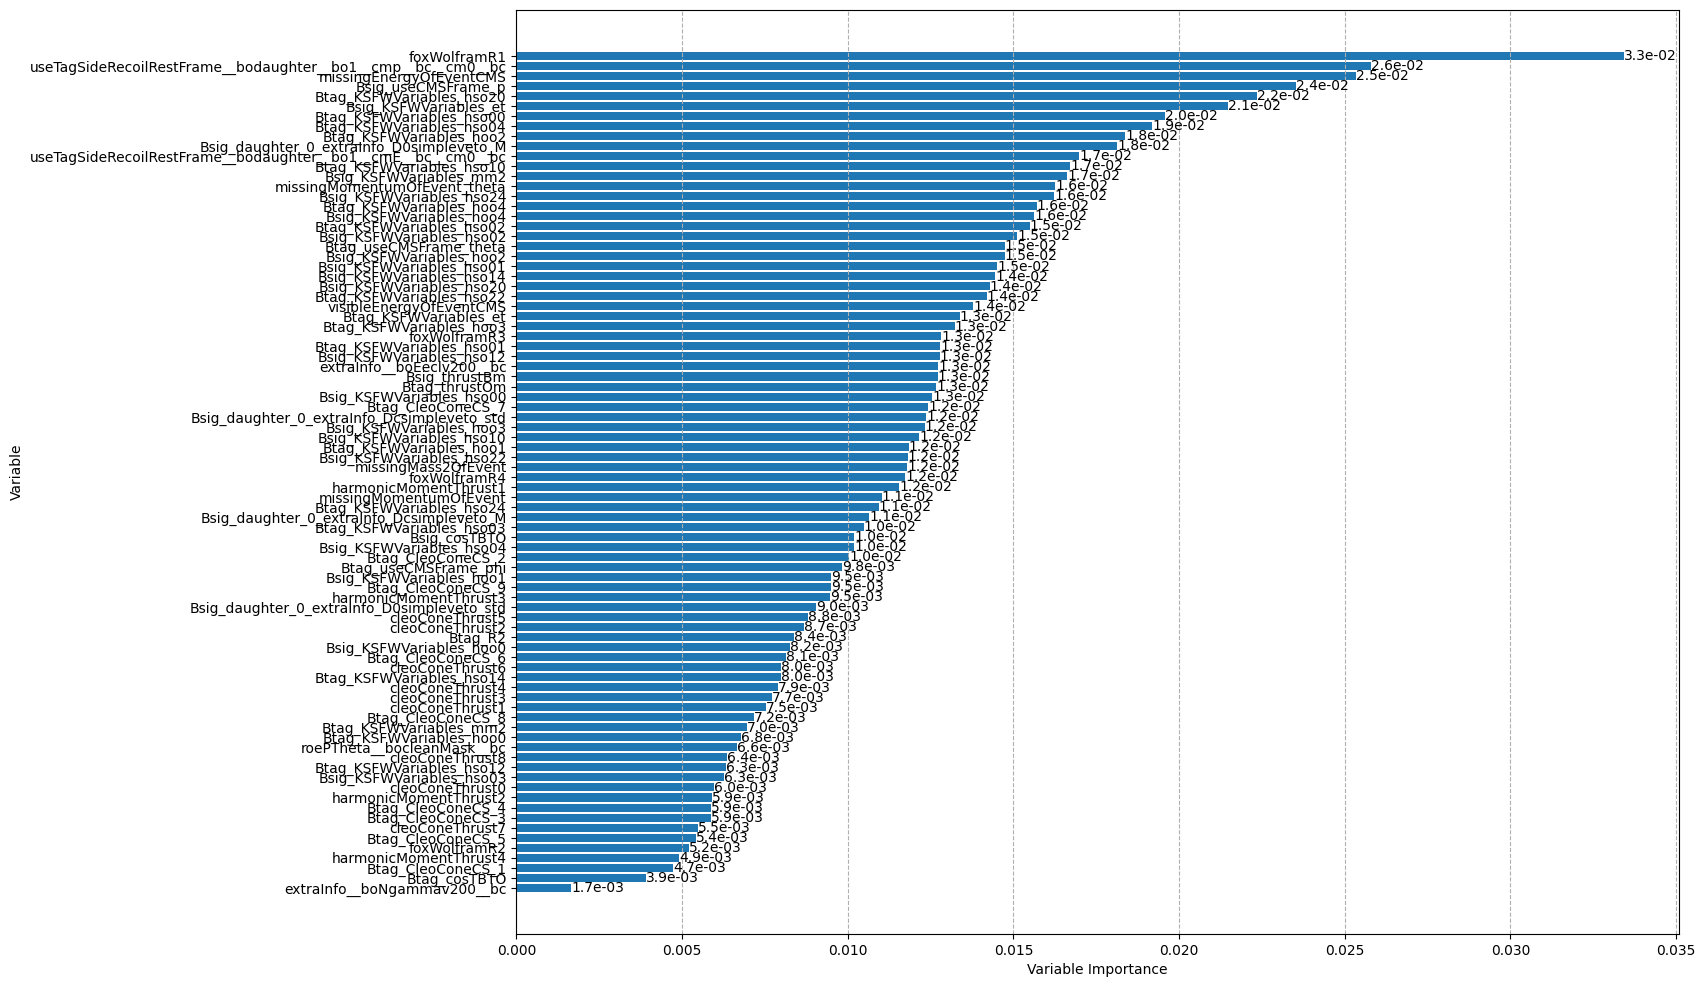
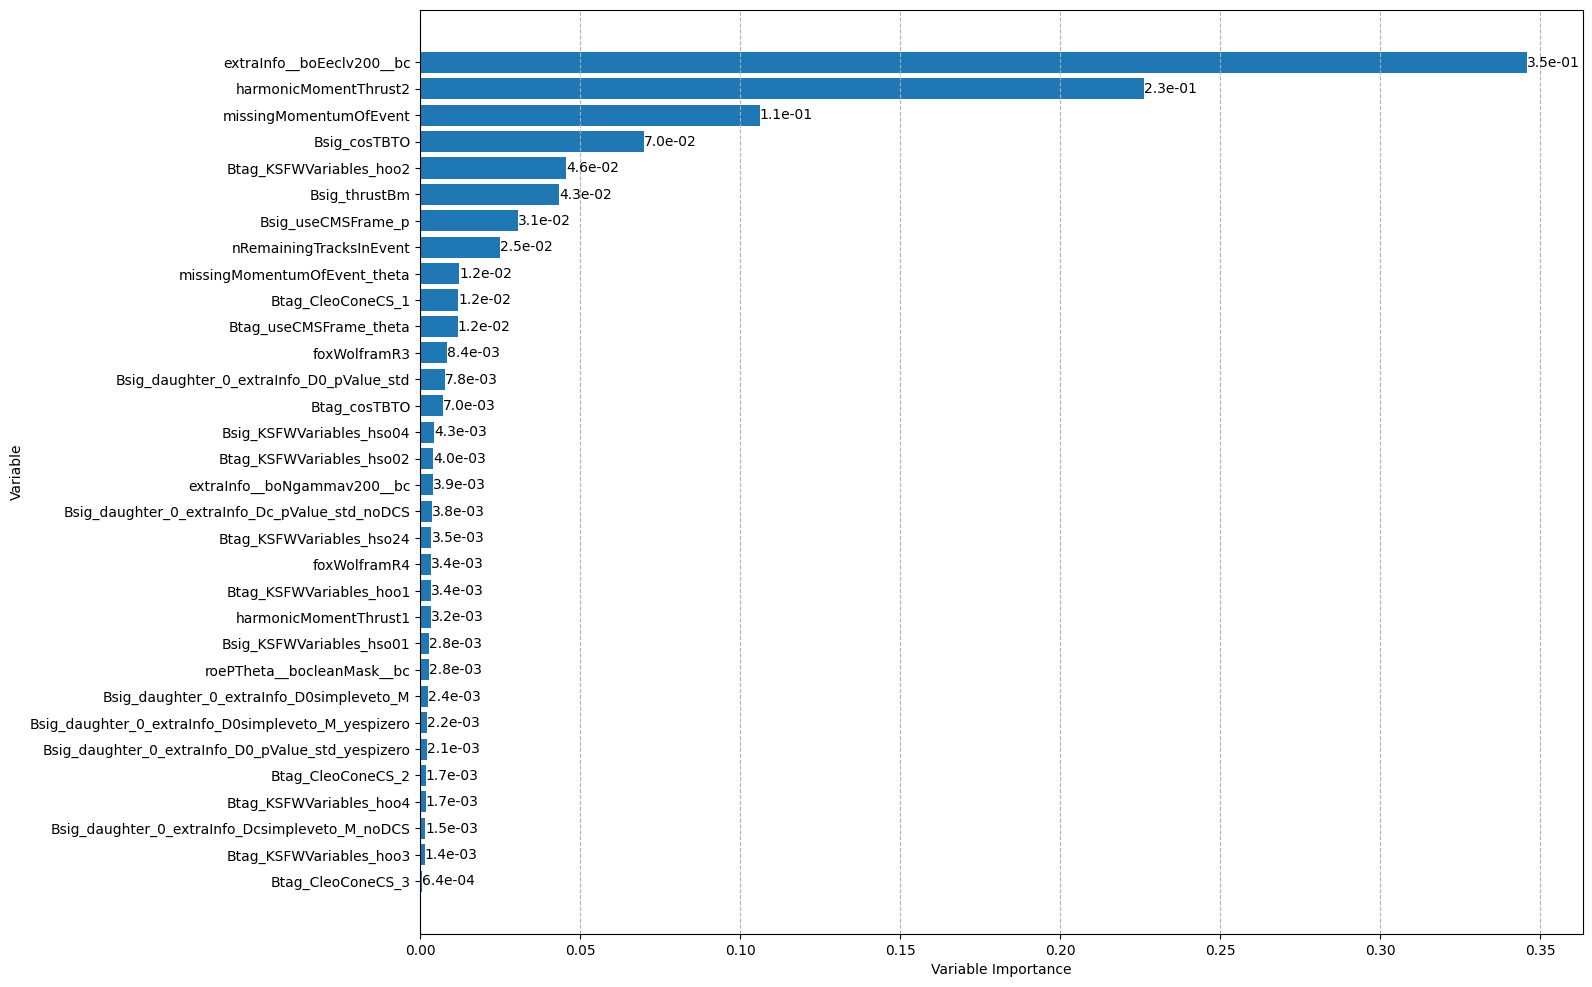
update FastBDT Gridsearch

diff --git a/NEW/src/FastBDTGridSearch.cc b/NEW/src/FastBDTGridSearch.cc
@@ -218,8 +218,6 @@ int main(int argc, char* argv[])
         std::vector<std::string> names;
         load_files(SIGNAL_input_test.c_str(), &names, "B2Knunu");
         for (unsigned int i = 0; i < names.size(); ++i) {
-            // take even only
-            if (i % 2 == 1) continue;
             FillVariables((SIGNAL_input_test + std::string("/") + names.at(i)).c_str(), input_vars2, &IsSignal2, &weight2, true, MCTYPE, ObtainWeight("SIGNAL", MCTYPE, "test", std::string("B2Knunu")), "B2Knunu");
         }
     }
@@ -227,8 +225,6 @@ int main(int argc, char* argv[])
         std::vector<std::string> names;
         load_files(SIGNAL_input_test.c_str(), &names, "B2Kstarnunu");
         for (unsigned int i = 0; i < names.size(); ++i) {
-            // take even only
-            if (i % 2 == 1) continue;
             FillVariables((SIGNAL_input_test + std::string("/") + names.at(i)).c_str(), input_vars2, &IsSignal2, &weight2, true, MCTYPE, ObtainWeight("SIGNAL", MCTYPE, "test", std::string("B2Kstarnunu")), "otherwise");
         }
     }
@@ -236,8 +232,6 @@ int main(int argc, char* argv[])
         std::vector<std::string> names;
         load_files(SIGNAL_input_test.c_str(), &names, "B2Xsnunu");
         for (unsigned int i = 0; i < names.size(); ++i) {
-            // take even only
-            if (i % 2 == 1) continue;
             FillVariables((SIGNAL_input_test + std::string("/") + names.at(i)).c_str(), input_vars2, &IsSignal2, &weight2, true, MCTYPE, ObtainWeight("SIGNAL", MCTYPE, "test", std::string("B2Xsnunu")), "B2Xsnunu");
         }
     }
@@ -245,8 +239,6 @@ int main(int argc, char* argv[])
         std::vector<std::string> names;
         load_files(SIGNAL_input_test.c_str(), &names, "B02K0nunu");
         for (unsigned int i = 0; i < names.size(); ++i) {
-            // take even only
-            if (i % 2 == 1) continue;
             FillVariables((SIGNAL_input_test + std::string("/") + names.at(i)).c_str(), input_vars2, &IsSignal2, &weight2, true, MCTYPE, ObtainWeight("SIGNAL", MCTYPE, "test", std::string("B02K0nunu")), "B02K0nunu");
         }
     }
@@ -254,8 +246,6 @@ int main(int argc, char* argv[])
         std::vector<std::string> names;
         load_files(SIGNAL_input_test.c_str(), &names, "B02Kstar0nunu");
         for (unsigned int i = 0; i < names.size(); ++i) {
-            // take even only
-            if (i % 2 == 1) continue;
             FillVariables((SIGNAL_input_test + std::string("/") + names.at(i)).c_str(), input_vars2, &IsSignal2, &weight2, true, MCTYPE, ObtainWeight("SIGNAL", MCTYPE, "test", std::string("B02Kstar0nunu")), "otherwise");
         }
     }
@@ -263,8 +253,6 @@ int main(int argc, char* argv[])
         std::vector<std::string> names;
         load_files(SIGNAL_input_test.c_str(), &names, "B02Xsnunu");
         for (unsigned int i = 0; i < names.size(); ++i) {
-            // take even only
-            if (i % 2 == 1) continue;
             FillVariables((SIGNAL_input_test + std::string("/") + names.at(i)).c_str(), input_vars2, &IsSignal2, &weight2, true, MCTYPE, ObtainWeight("SIGNAL", MCTYPE, "test", std::string("B02Xsnunu")), "B02Xsnunu");
         }
     }
@@ -272,8 +260,6 @@ int main(int argc, char* argv[])
         std::vector<std::string> names;
         load_files(CHG_input_test.c_str(), &names);
         for (unsigned int i = 0; i < names.size(); ++i) {
-            // take even only
-            if (i % 2 == 1) continue;
             FillVariables((CHG_input_test + std::string("/") + names.at(i)).c_str(), input_vars2, &IsSignal2, &weight2, false, MCTYPE, ObtainWeight("CHG", MCTYPE, "test", std::string("")), "otherwise");
         }
     }
@@ -281,8 +267,6 @@ int main(int argc, char* argv[])
         std::vector<std::string> names;
         load_files(MIX_input_test.c_str(), &names);
         for (unsigned int i = 0; i < names.size(); ++i) {
-            // take even only
-            if (i % 2 == 1) continue;
             FillVariables((MIX_input_test + std::string("/") + names.at(i)).c_str(), input_vars2, &IsSignal2, &weight2, false, MCTYPE, ObtainWeight("MIX", MCTYPE, "test", std::string("")), "otherwise");
         }
     }
@@ -290,8 +274,6 @@ int main(int argc, char* argv[])
         std::vector<std::string> names;
         load_files(UUBAR_input_test.c_str(), &names);
         for (unsigned int i = 0; i < names.size(); ++i) {
-            // take even only
-            if (i % 2 == 1) continue;
             FillVariables((UUBAR_input_test + std::string("/") + names.at(i)).c_str(), input_vars2, &IsSignal2, &weight2, false, MCTYPE, ObtainWeight("UUBAR", MCTYPE, "test", std::string("")), "otherwise");
         }
     }
@@ -299,8 +281,6 @@ int main(int argc, char* argv[])
         std::vector<std::string> names;
         load_files(DDBAR_input_test.c_str(), &names);
         for (unsigned int i = 0; i < names.size(); ++i) {
-            // take even only
-            if (i % 2 == 1) continue;
             FillVariables((DDBAR_input_test + std::string("/") + names.at(i)).c_str(), input_vars2, &IsSignal2, &weight2, false, MCTYPE, ObtainWeight("DDBAR", MCTYPE, "test", std::string("")), "otherwise");
         }
     }
@@ -308,8 +288,6 @@ int main(int argc, char* argv[])
         std::vector<std::string> names;
         load_files(SSBAR_input_test.c_str(), &names);
         for (unsigned int i = 0; i < names.size(); ++i) {
-            // take even only
-            if (i % 2 == 1) continue;
             FillVariables((SSBAR_input_test + std::string("/") + names.at(i)).c_str(), input_vars2, &IsSignal2, &weight2, false, MCTYPE, ObtainWeight("SSBAR", MCTYPE, "test", std::string("")), "otherwise");
         }
     }
@@ -317,8 +295,6 @@ int main(int argc, char* argv[])
         std::vector<std::string> names;
         load_files(CHARM_input_test.c_str(), &names);
         for (unsigned int i = 0; i < names.size(); ++i) {
-            // take even only
-            if (i % 2 == 1) continue;
             FillVariables((CHARM_input_test + std::string("/") + names.at(i)).c_str(), input_vars2, &IsSignal2, &weight2, false, MCTYPE, ObtainWeight("CHARM", MCTYPE, "test", std::string("")), "otherwise");
         }
     }

diff --git a/FastBDT/Var_importance.py b/FastBDT/Var_importance.py
@@ -9,91 +9,38 @@ import matplotlib.pyplot as plt
 
 import operator
 
-unsorted_list = [('Bsig_cosTBTO',0.0101986),
-('Bsig_KSFWVariables_et',0.0214735),
-('Bsig_KSFWVariables_hoo0',0.0082472),
-('Bsig_KSFWVariables_hoo1',0.00950944),
-('Bsig_KSFWVariables_hoo2',0.0147349),
-('Bsig_KSFWVariables_hoo3',0.0123265),
-('Bsig_KSFWVariables_hoo4',0.0156334),
-('Bsig_KSFWVariables_hso00',0.0125506),
-('Bsig_KSFWVariables_hso02',0.0151078),
-('Bsig_KSFWVariables_hso03',0.00627845),
-('Bsig_KSFWVariables_hso04',0.0101944),
-('Bsig_KSFWVariables_hso01',0.0145051),
-('Bsig_KSFWVariables_hso10',0.0121506),
-('Bsig_KSFWVariables_hso12',0.0127805),
-('Bsig_KSFWVariables_hso14',0.0144483),
-('Bsig_KSFWVariables_hso20',0.0142836),
-('Bsig_KSFWVariables_hso22',0.0118136),
-('Bsig_KSFWVariables_hso24',0.0162346),
-('Bsig_KSFWVariables_mm2',0.0166195),
-('Bsig_thrustBm',0.0127134),
-('Bsig_useCMSFrame_p',0.0235164),
-('Btag_CleoConeCS_1',0.00473604),
-('Btag_CleoConeCS_2',0.0100519),
-('Btag_CleoConeCS_3',0.00586553),
-('Btag_CleoConeCS_4',0.00588283),
-('Btag_CleoConeCS_5',0.00542218),
-('Btag_CleoConeCS_6',0.00812838),
-('Btag_CleoConeCS_7',0.0124335),
-('Btag_CleoConeCS_8',0.00715929),
-('Btag_CleoConeCS_9',0.00948522),
-('Btag_cosTBTO',0.00391538),
-('Btag_KSFWVariables_et',0.0133768),
-('Btag_KSFWVariables_hoo0',0.00678459),
-('Btag_KSFWVariables_hoo1',0.0118354),
-('Btag_KSFWVariables_hoo2',0.0183833),
-('Btag_KSFWVariables_hoo3',0.0132279),
-('Btag_KSFWVariables_hoo4',0.0157104),
-('Btag_KSFWVariables_hso00',0.0195857),
-('Btag_KSFWVariables_hso01',0.0127986),
-('Btag_KSFWVariables_hso02',0.0154957),
-('Btag_KSFWVariables_hso03',0.0104841),
-('Btag_KSFWVariables_hso04',0.0191875),
-('Btag_KSFWVariables_hso10',0.0167085),
-('Btag_KSFWVariables_hso12',0.00631565),
-('Btag_KSFWVariables_hso14',0.00797747),
-('Btag_KSFWVariables_hso20',0.0223386),
-('Btag_KSFWVariables_hso22',0.0141938),
-('Btag_KSFWVariables_hso24',0.0109401),
-('Btag_KSFWVariables_mm2',0.00696028),
-('Btag_R2',0.00837291),
-('Btag_thrustOm',0.012666),
-('Btag_useCMSFrame_phi',0.00981679),
-('Btag_useCMSFrame_theta',0.0147375),
-('cleoConeThrust0',0.00597869),
-('cleoConeThrust1',0.00753636),
-('cleoConeThrust2',0.00867155),
-('cleoConeThrust3',0.00770377),
-('cleoConeThrust4',0.00789413),
-('cleoConeThrust5',0.00880025),
-('cleoConeThrust6',0.00799151),
-('cleoConeThrust7',0.00548562),
-('cleoConeThrust8',0.00636177),
-('extraInfo__boEeclv200__bc',0.012725),
-('extraInfo__boNgammav200__bc',0.00166066),
-('foxWolframR1',0.0334162),
-('foxWolframR2',0.00521502),
-('foxWolframR3',0.0128183),
-('foxWolframR4',0.0117364),
-('harmonicMomentThrust1',0.0115549),
-('harmonicMomentThrust2',0.00589356),
-('harmonicMomentThrust3',0.00946979),
-('harmonicMomentThrust4',0.00492167),
-('missingEnergyOfEventCMS',0.0253359),
-('missingMass2OfEvent',0.0118035),
-('missingMomentumOfEvent',0.0110275),
-('missingMomentumOfEvent_theta',0.0162576),
-('roePTheta__bocleanMask__bc',0.00664797),
-('useTagSideRecoilRestFrame__bodaughter__bo1__cmE__bc__cm0__bc',0.016991),
-('useTagSideRecoilRestFrame__bodaughter__bo1__cmp__bc__cm0__bc',0.0258085),
-('visibleEnergyOfEventCMS',0.0137891),
-('Bsig_daughter_0_extraInfo_Dcsimpleveto_std',0.0123737),
-('Bsig_daughter_0_extraInfo_Dcsimpleveto_M',0.010653),
-('Bsig_daughter_0_extraInfo_D0simpleveto_std',0.00904251),
-('Bsig_daughter_0_extraInfo_D0simpleveto_M',0.018136),
-]
+unsorted_list = [('Bsig_cosTBTO',0.0697935),
+('Bsig_KSFWVariables_hso01',0.00280361),
+('Bsig_KSFWVariables_hso04',0.00425243),
+('Bsig_thrustBm',0.0434154),
+('Bsig_useCMSFrame_p',0.0305483),
+('Btag_CleoConeCS_1',0.0118515),
+('Btag_CleoConeCS_2',0.0017198),
+('Btag_CleoConeCS_3',0.000640396),
+('Btag_cosTBTO',0.00697709),
+('Btag_KSFWVariables_hoo1',0.00338822),
+('Btag_KSFWVariables_hoo2',0.0455039),
+('Btag_KSFWVariables_hoo3',0.00143683),
+('Btag_KSFWVariables_hoo4',0.0016711),
+('Btag_KSFWVariables_hso02',0.00404667),
+('Btag_KSFWVariables_hso24',0.00350526),
+('Btag_useCMSFrame_theta',0.0117302),
+('extraInfo__boEeclv200__bc',0.345956),
+('extraInfo__boNgammav200__bc',0.00391882),
+('foxWolframR3',0.00837098),
+('foxWolframR4',0.00340001),
+('harmonicMomentThrust1',0.00322416),
+('harmonicMomentThrust2',0.22617),
+('missingMomentumOfEvent',0.106035),
+('missingMomentumOfEvent_theta',0.012132),
+('nRemainingTracksInEvent',0.0250172),
+('roePTheta__bocleanMask__bc',0.00276636),
+('Bsig_daughter_0_extraInfo_Dc_pValue_std_noDCS',0.00379848),
+('Bsig_daughter_0_extraInfo_Dcsimpleveto_M_noDCS',0.00147984),
+('Bsig_daughter_0_extraInfo_D0_pValue_std',0.00777465),
+('Bsig_daughter_0_extraInfo_D0simpleveto_M',0.0023973),
+('Bsig_daughter_0_extraInfo_D0_pValue_std_yespizero',0.00211022),
+('Bsig_daughter_0_extraInfo_D0simpleveto_M_yespizero',0.00216408)]
 
 
 sorted_list = sorted(unsorted_list, key=operator.itemgetter(1), reverse=True)

diff --git a/NEW/matlab/pca_pi0.m b/NEW/matlab/pca_pi0.m
@@ -1,7 +1,7 @@
 clear all
 format long
 
-N_total_bins = 21;
+N_total_bins = 84;
 N_selected_vectors = 3;
 
 % pi0 correction

diff --git a/NEW/matlab/pca_PID.m b/NEW/matlab/pca_PID.m
@@ -1,7 +1,7 @@
 clear all
 format long
 
-N_total_bins = 21;
+N_total_bins = 84;
 N_selected_vectors = 15;
 
 % Kaon ID

diff --git a/NEW/matlab/pca_FEI.m b/NEW/matlab/pca_FEI.m
@@ -1,7 +1,7 @@
 clear all
 format long
 
-N_total_bins = 9;
+N_total_bins = 36;
 N_selected_vectors = 3;
 
 % FEI

diff --git a/NEW/matlab/pca_BR.m b/NEW/matlab/pca_BR.m
@@ -1,7 +1,7 @@
 clear all
 format long
 
-N_total_bins = 9;
+N_total_bins = 36;
 N_selected_vectors = 5;
 
 % BR
